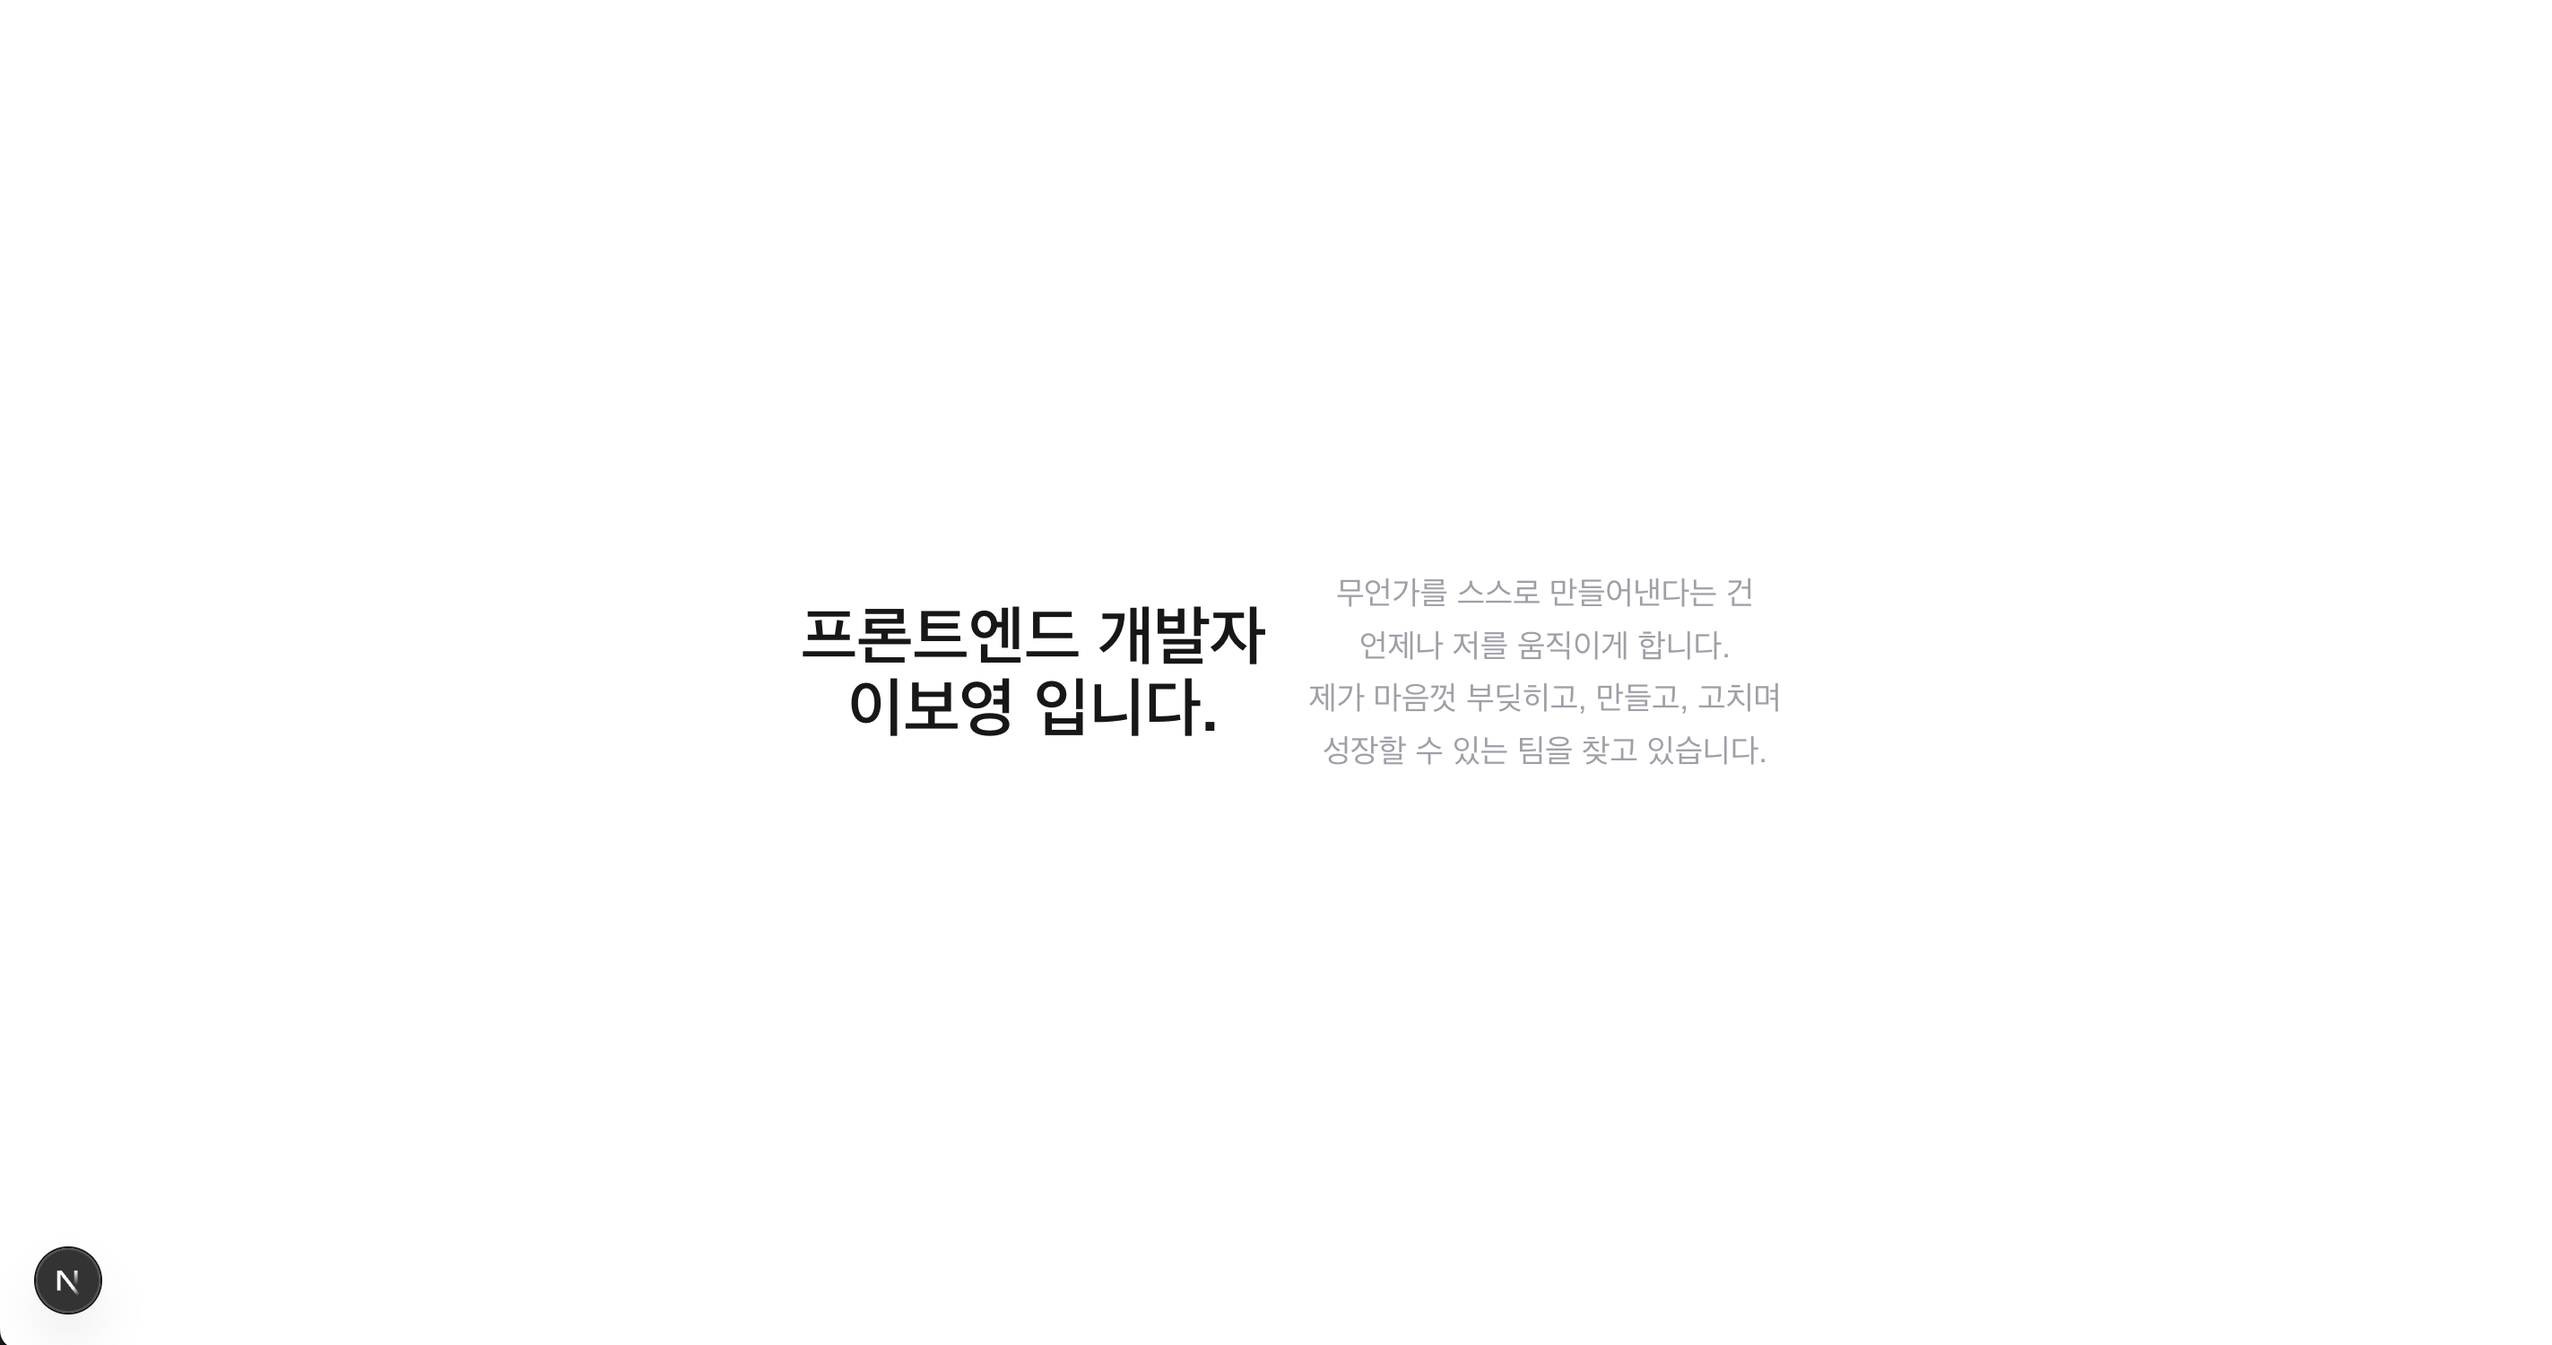
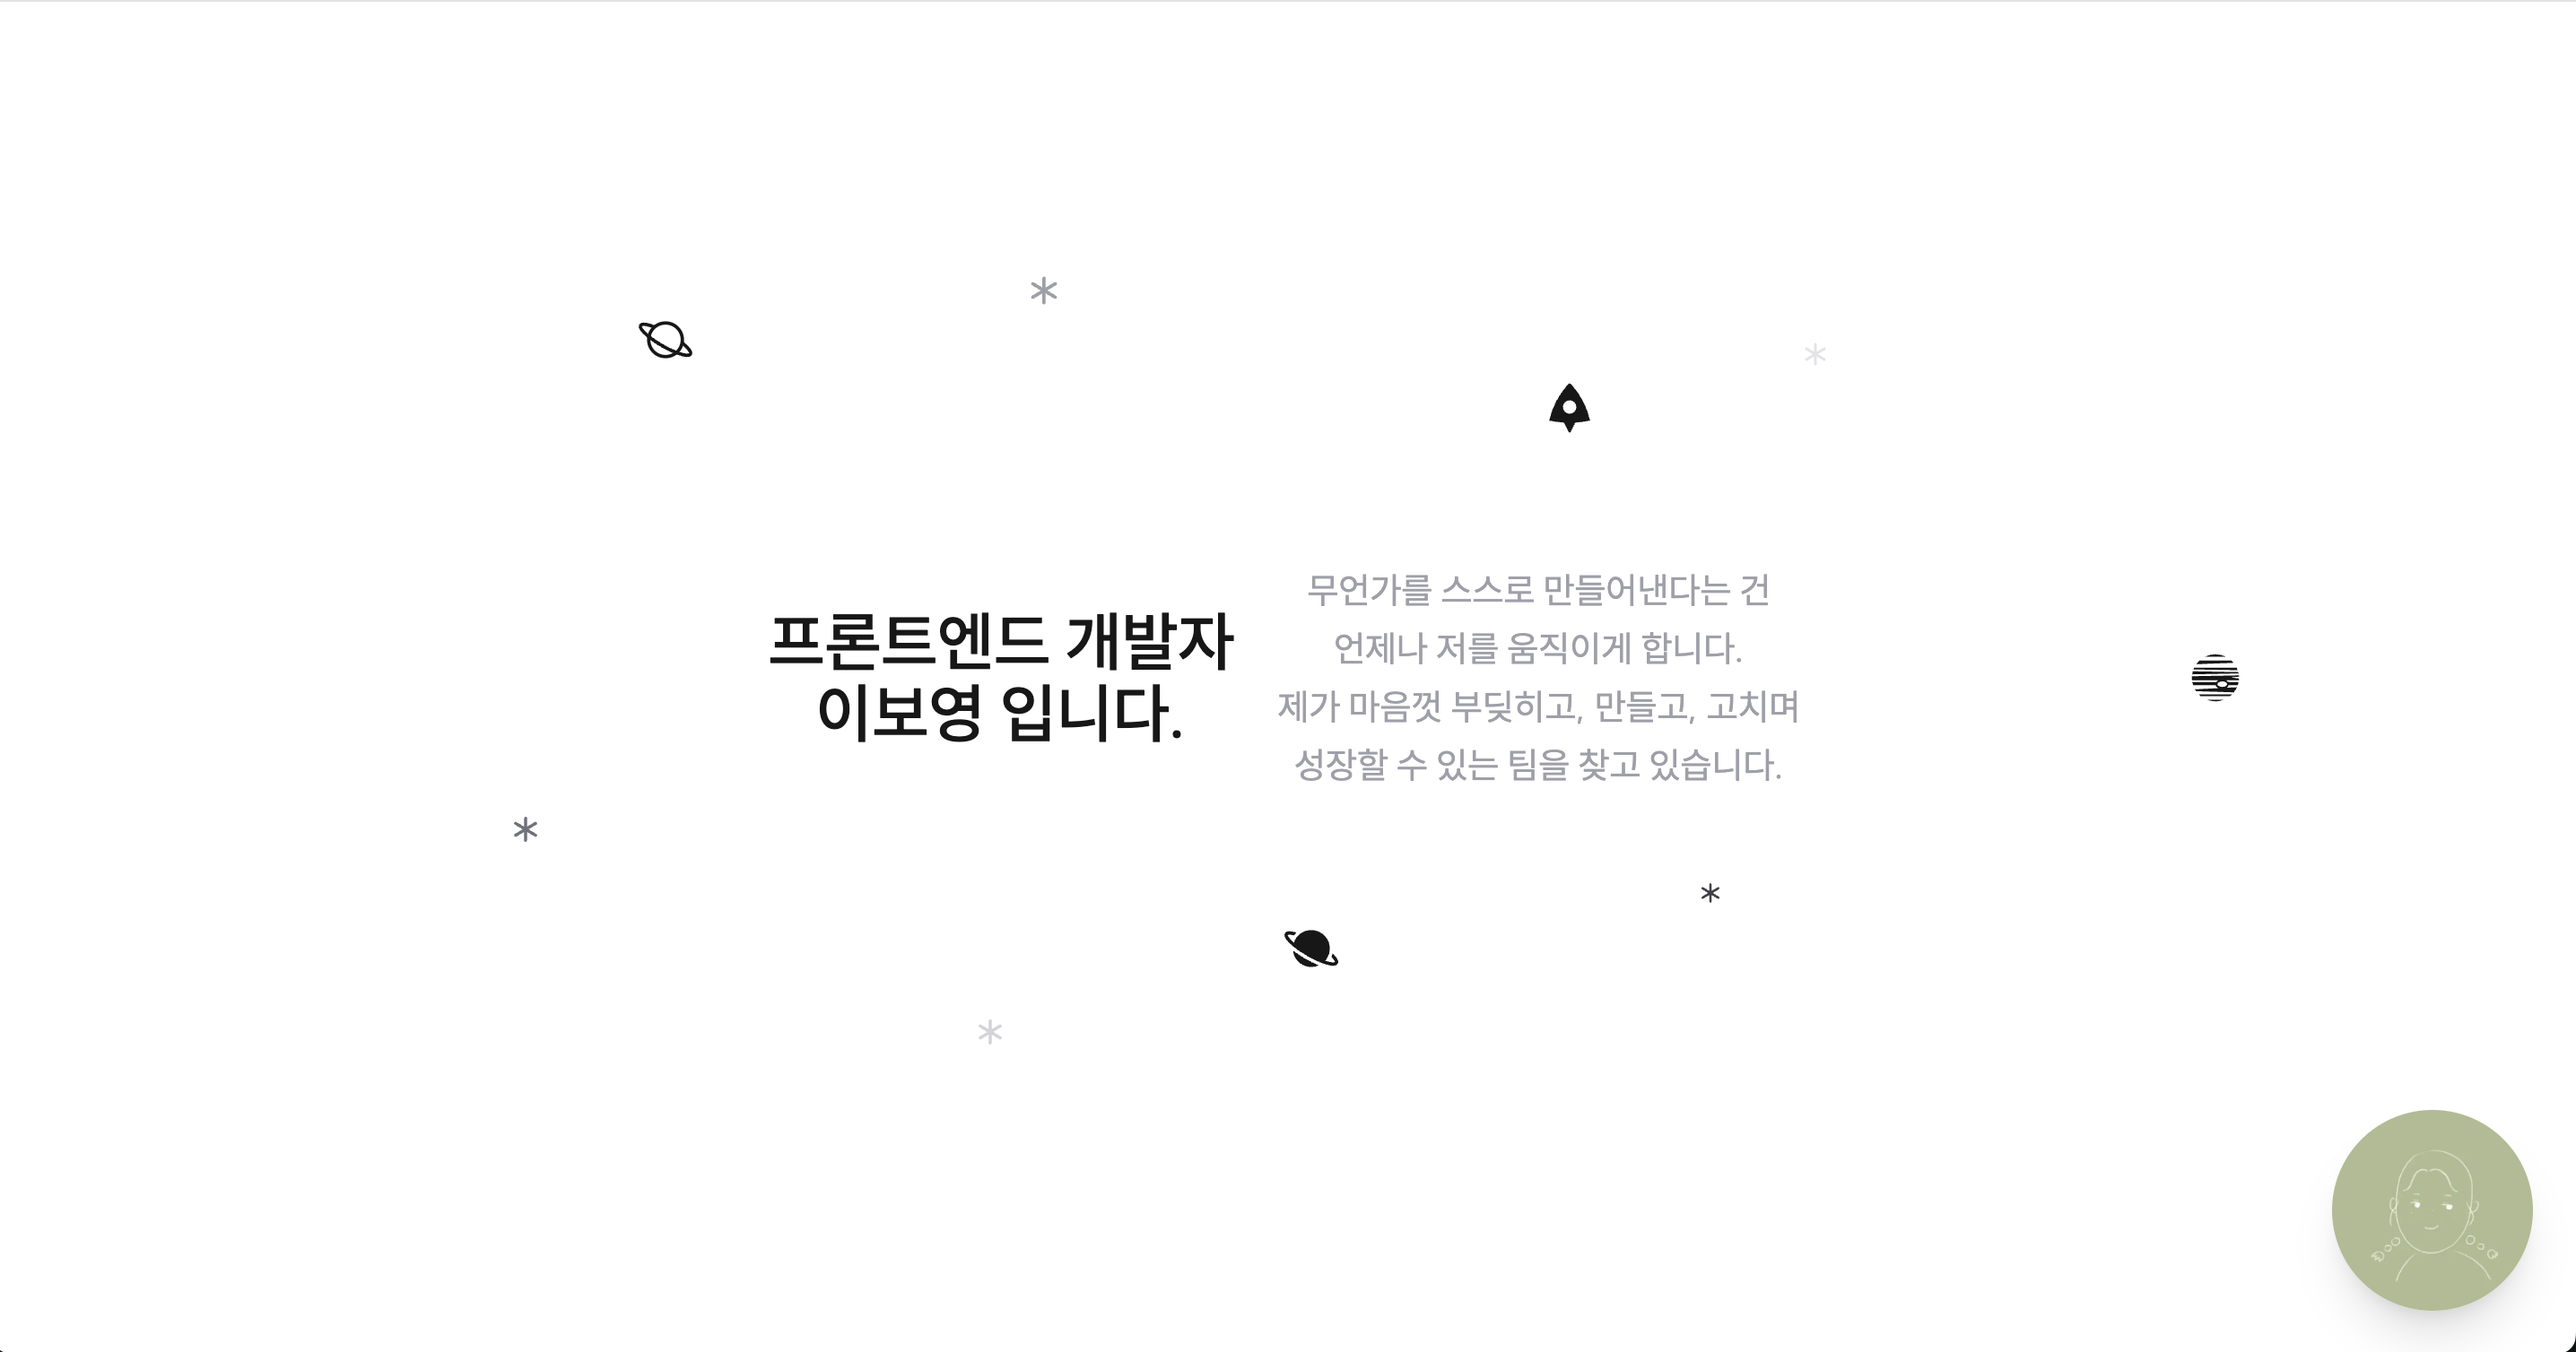
[BOPO-27] Card를 FAB로 변경

diff --git a/src/app/page.tsx b/src/app/page.tsx
@@ -1,6 +1,6 @@
 import AboutArea from "@/components/about/AboutArea";
 import Skills from "@/components/about/Skills";
-import Card from "@/components/common/Card";
+import FloatingActionButton from "@/components/common/FAB";
 import Navigation from "@/components/common/Navigation";
 import ContactArea from "@/components/contact/ContactArea";
 import Intro from "@/components/Intro";
@@ -14,7 +14,7 @@ const page = () => {
       <Skills id="skill" />
       <ProjectArea id="project" />
       <ContactArea id="contact" />
-      <Card />
+      <FloatingActionButton />
       <Navigation />
     </div>
   );

diff --git a/src/components/common/FAB.tsx b/src/components/common/FAB.tsx
@@ -4,7 +4,7 @@ import React from "react";
 // import { IoIosMail } from "react-icons/io";
 // import { SiGithub, SiVelog } from "react-icons/si";
 
-const Card = () => {
+const FloatingActionButton = () => {
   return (
     <div className="fixed bottom-6 right-6 w-[4rem] h-[4rem] md:w-[7rem] md:h-[7rem] shadow-xl rounded-full overflow-hidden ">
       <Image
@@ -32,4 +32,4 @@ const Card = () => {
   );
 };
 
-export default Card;
+export default FloatingActionButton;
